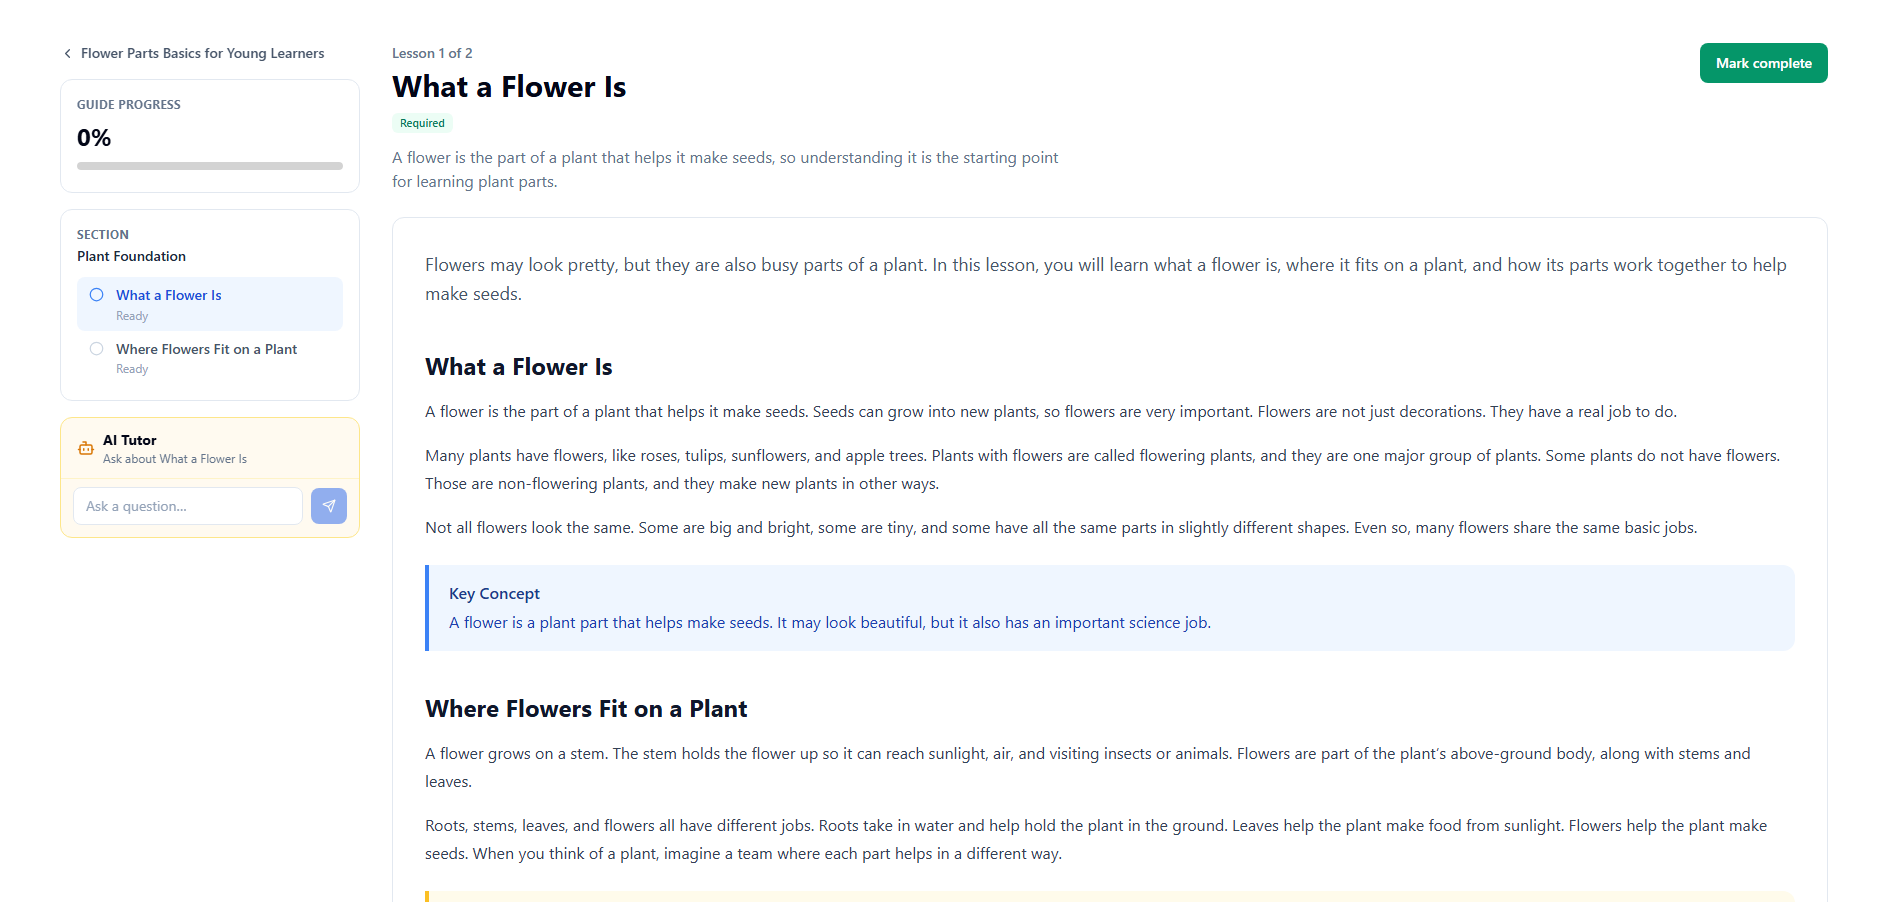
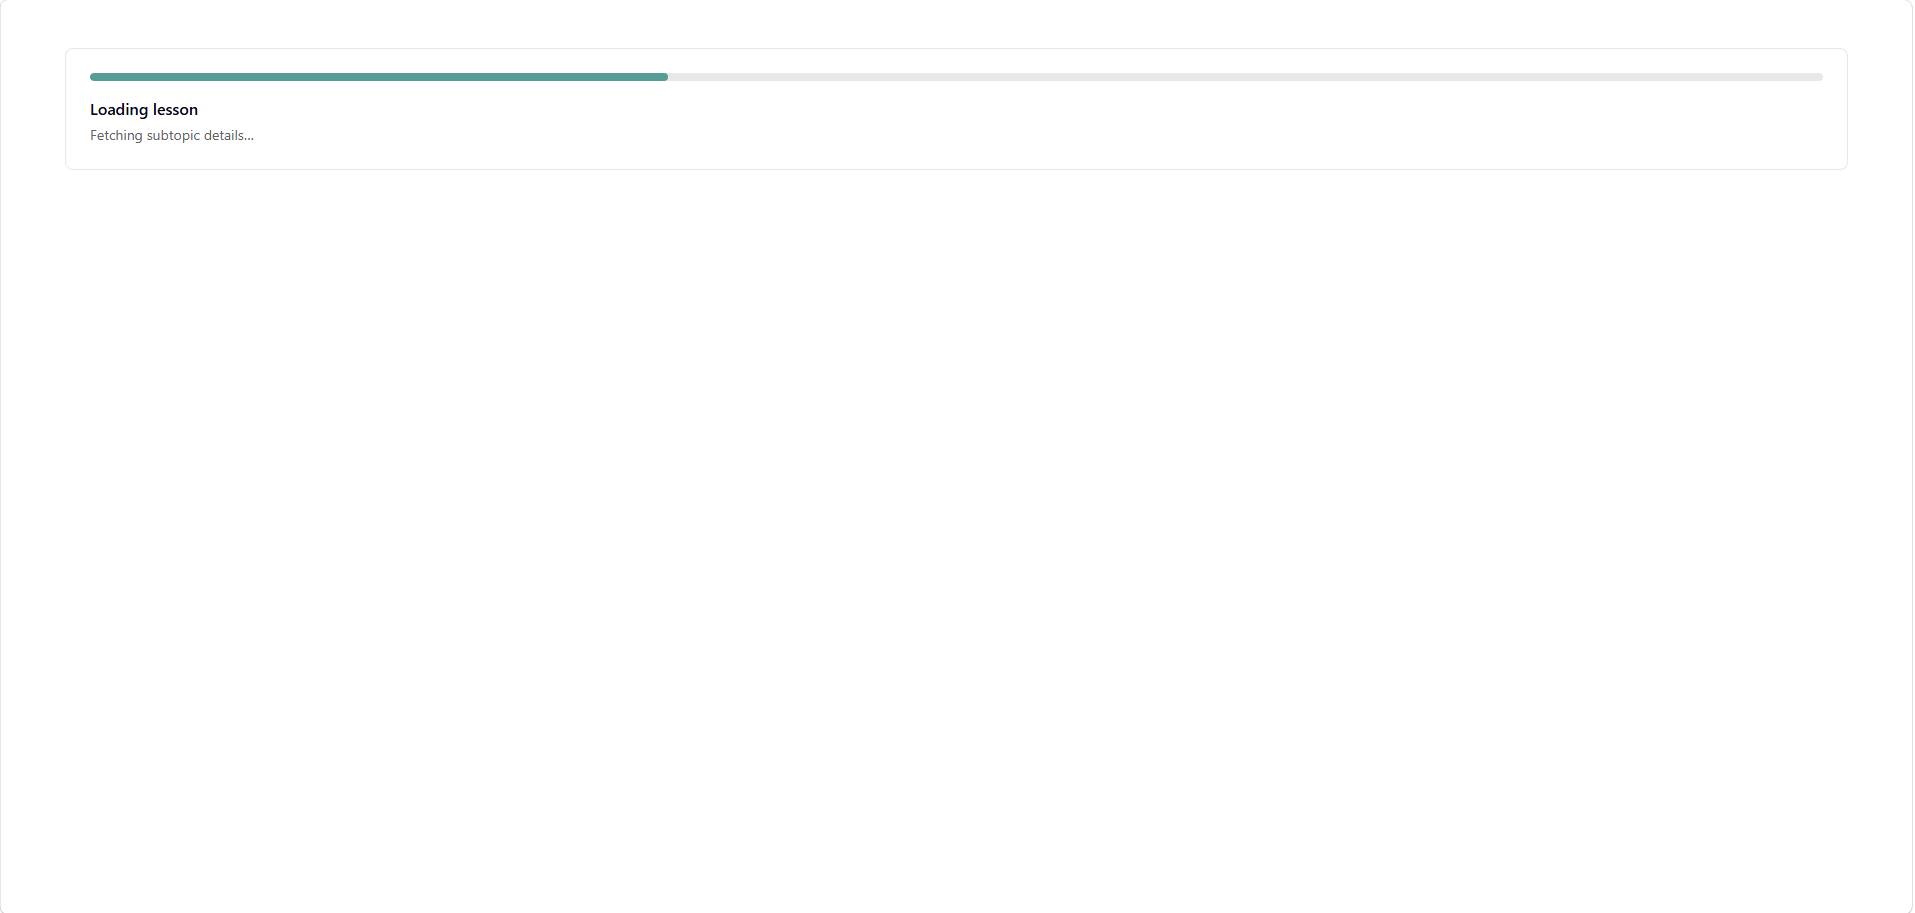
feat: inline content skeleton on lesson navigation, full skeleton on initial load

diff --git a/client/src/pages/SubtopicDetailPage.jsx b/client/src/pages/SubtopicDetailPage.jsx
@@ -31,7 +31,6 @@ import { useEffect, useRef, useState } from 'react';
 import { Link, useParams } from 'react-router';
 import { getSubtopic, updateSubtopicProgress } from '../api/guides';
 import { getAccessToken } from '../api/client';
-import LoadingPanel from '../components/LoadingPanel';
 
 const PURIFY_CONFIG = {
   USE_PROFILES: { html: true, svg: true, svgFilters: true },
@@ -179,6 +178,7 @@ export default function SubtopicDetailPage() {
   const position = parseInt(positionParam, 10);
 
   const [data, setData] = useState(null);
+  const [loadingContent, setLoadingContent] = useState(false);
   const [error, setError] = useState('');
   const [isSaving, setIsSaving] = useState(false);
   const [readingProgress, setReadingProgress] = useState(0);
@@ -197,12 +197,12 @@ export default function SubtopicDetailPage() {
   useEffect(() => {
     const controller = new AbortController();
     setReadingProgress(0);
-    setData(null);
+    setLoadingContent(true);
     setError('');
 
     getSubtopic(topicId, position)
-      .then((res) => { if (!controller.signal.aborted) setData(res); })
-      .catch((err) => { if (!controller.signal.aborted) setError(err.message); });
+      .then((res) => { if (!controller.signal.aborted) { setData(res); setLoadingContent(false); } })
+      .catch((err) => { if (!controller.signal.aborted) { setError(err.message); setLoadingContent(false); } });
 
     return () => controller.abort();
   }, [topicId, positionParam]);
@@ -276,7 +276,71 @@ export default function SubtopicDetailPage() {
   }
 
   if (!data) {
-    return <LoadingPanel title="Loading lesson" detail="Fetching subtopic details…" />;
+    return (
+      <>
+        <div className="fixed left-0 right-0 top-0 z-[70] h-1 bg-slate-100" />
+        <div className="grid gap-8 xl:grid-cols-[300px_minmax(0,1fr)] animate-pulse">
+          {/* Sidebar skeleton — xl only */}
+          <aside className="hidden xl:flex xl:flex-col gap-4">
+            <div className="h-4 w-32 rounded bg-slate-200" />
+            <div className="rounded-xl border border-slate-200 bg-white p-4">
+              <div className="h-3 w-24 rounded bg-slate-200" />
+              <div className="mt-3 h-7 w-16 rounded bg-slate-200" />
+              <div className="mt-2 h-2 w-full rounded-full bg-slate-200" />
+            </div>
+            <div className="rounded-xl border border-slate-200 bg-white p-4 space-y-2">
+              <div className="h-3 w-20 rounded bg-slate-200" />
+              <div className="mt-1 space-y-1.5">
+                {[75, 90, 60, 80, 55, 70].map((w, i) => (
+                  <div key={i} className="h-8 rounded-lg bg-slate-100" />
+                ))}
+              </div>
+            </div>
+          </aside>
+
+          {/* Main content skeleton */}
+          <div>
+            {/* Mobile breadcrumb */}
+            <div className="mb-5 flex items-center gap-2 xl:hidden">
+              <div className="h-4 w-24 rounded bg-slate-200" />
+              <div className="h-4 w-2 rounded bg-slate-200" />
+              <div className="h-4 w-32 rounded bg-slate-200" />
+            </div>
+
+            {/* Header */}
+            <div className="flex flex-col gap-4 md:flex-row md:items-start md:justify-between">
+              <div className="flex-1 space-y-2">
+                <div className="h-4 w-28 rounded bg-slate-200" />
+                <div className="h-8 w-3/4 rounded bg-slate-200" />
+                <div className="h-8 w-1/2 rounded bg-slate-200" />
+                <div className="mt-1 h-4 w-full max-w-lg rounded bg-slate-200" />
+                <div className="h-4 w-2/3 rounded bg-slate-200" />
+              </div>
+              <div className="h-10 w-36 shrink-0 rounded-lg bg-slate-200" />
+            </div>
+
+            {/* Content card */}
+            <div className="mt-6 rounded-xl border border-slate-200 bg-white p-6 lg:p-8 space-y-3">
+              <div className="h-4 w-full rounded bg-slate-100" />
+              <div className="h-4 w-5/6 rounded bg-slate-100" />
+              <div className="h-4 w-4/5 rounded bg-slate-100" />
+              <div className="h-4 w-full rounded bg-slate-100" />
+              <div className="h-4 w-3/4 rounded bg-slate-100" />
+              <div className="mt-4 h-36 w-full rounded-lg bg-slate-100" />
+              <div className="h-4 w-full rounded bg-slate-100" />
+              <div className="h-4 w-5/6 rounded bg-slate-100" />
+              <div className="h-4 w-2/3 rounded bg-slate-100" />
+            </div>
+
+            {/* Prev / Next nav */}
+            <div className="mt-8 flex items-center gap-3 border-t border-slate-200 pt-6">
+              <div className="h-10 w-32 rounded-lg bg-slate-200" />
+              <div className="ml-auto h-10 w-32 rounded-lg bg-slate-200" />
+            </div>
+          </div>
+        </div>
+      </>
+    );
   }
 
   const { subtopic, item, sectionItems, prevItem, nextItem, nextTopic, fullOutline, topic, guide } = data;
@@ -403,7 +467,19 @@ export default function SubtopicDetailPage() {
 
           {/* Lesson content */}
           <div className="mt-6 rounded-xl border border-slate-200 bg-white p-6 lg:p-8 min-h-[200px]">
-            {displayedHtml ? (
+            {loadingContent ? (
+              <div className="animate-pulse space-y-3">
+                <div className="h-4 w-full rounded bg-slate-100" />
+                <div className="h-4 w-5/6 rounded bg-slate-100" />
+                <div className="h-4 w-4/5 rounded bg-slate-100" />
+                <div className="h-4 w-full rounded bg-slate-100" />
+                <div className="h-4 w-3/4 rounded bg-slate-100" />
+                <div className="mt-4 h-36 w-full rounded-lg bg-slate-100" />
+                <div className="h-4 w-full rounded bg-slate-100" />
+                <div className="h-4 w-5/6 rounded bg-slate-100" />
+                <div className="h-4 w-2/3 rounded bg-slate-100" />
+              </div>
+            ) : displayedHtml ? (
               <div
                 ref={contentRef}
                 className="lesson-content"